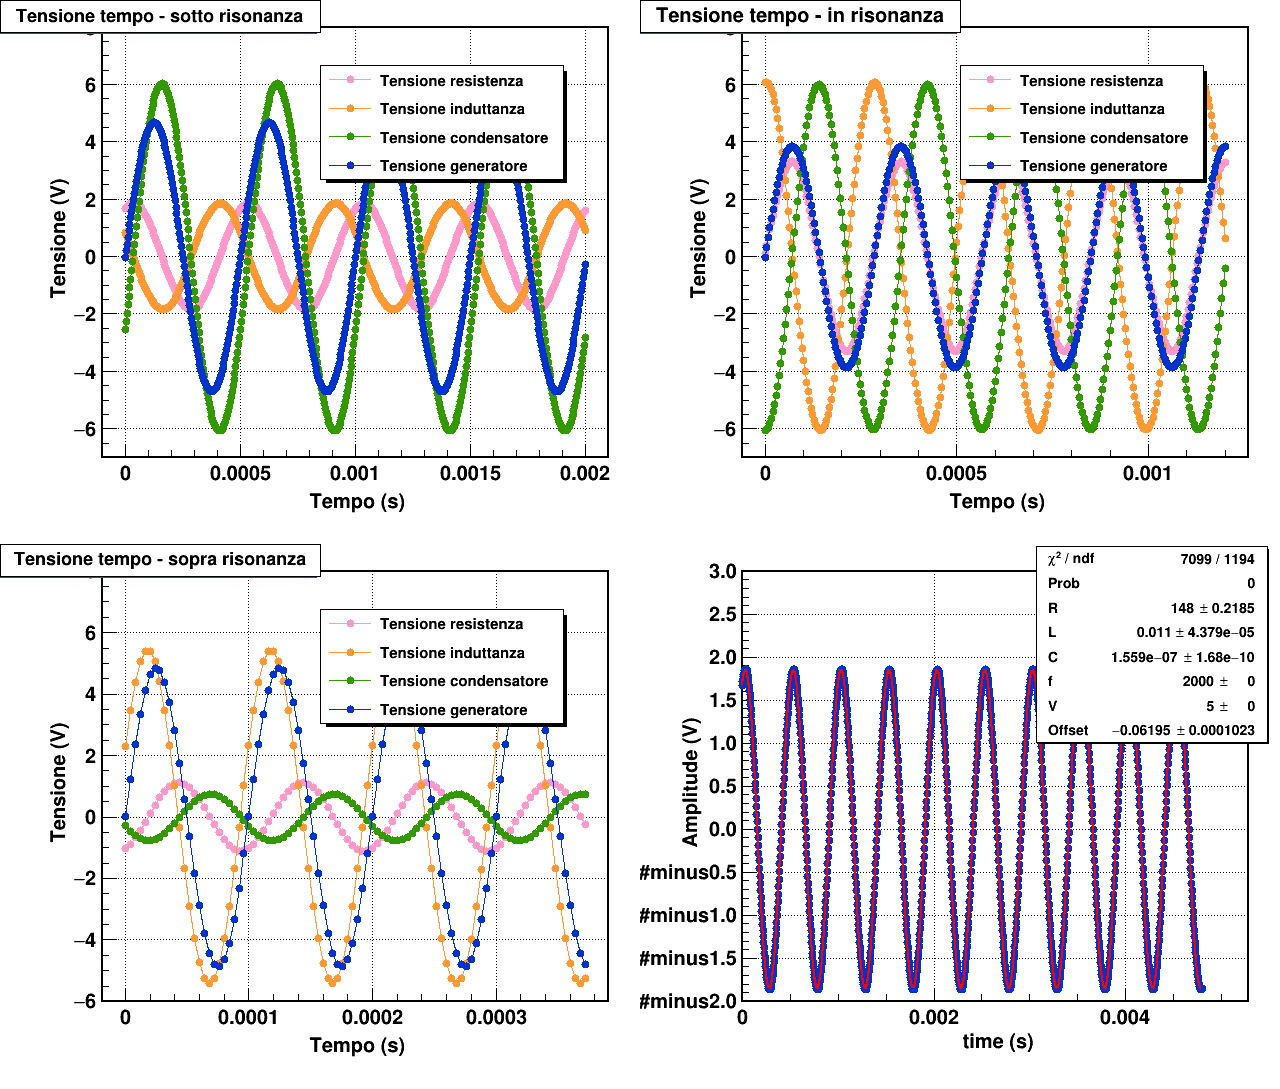
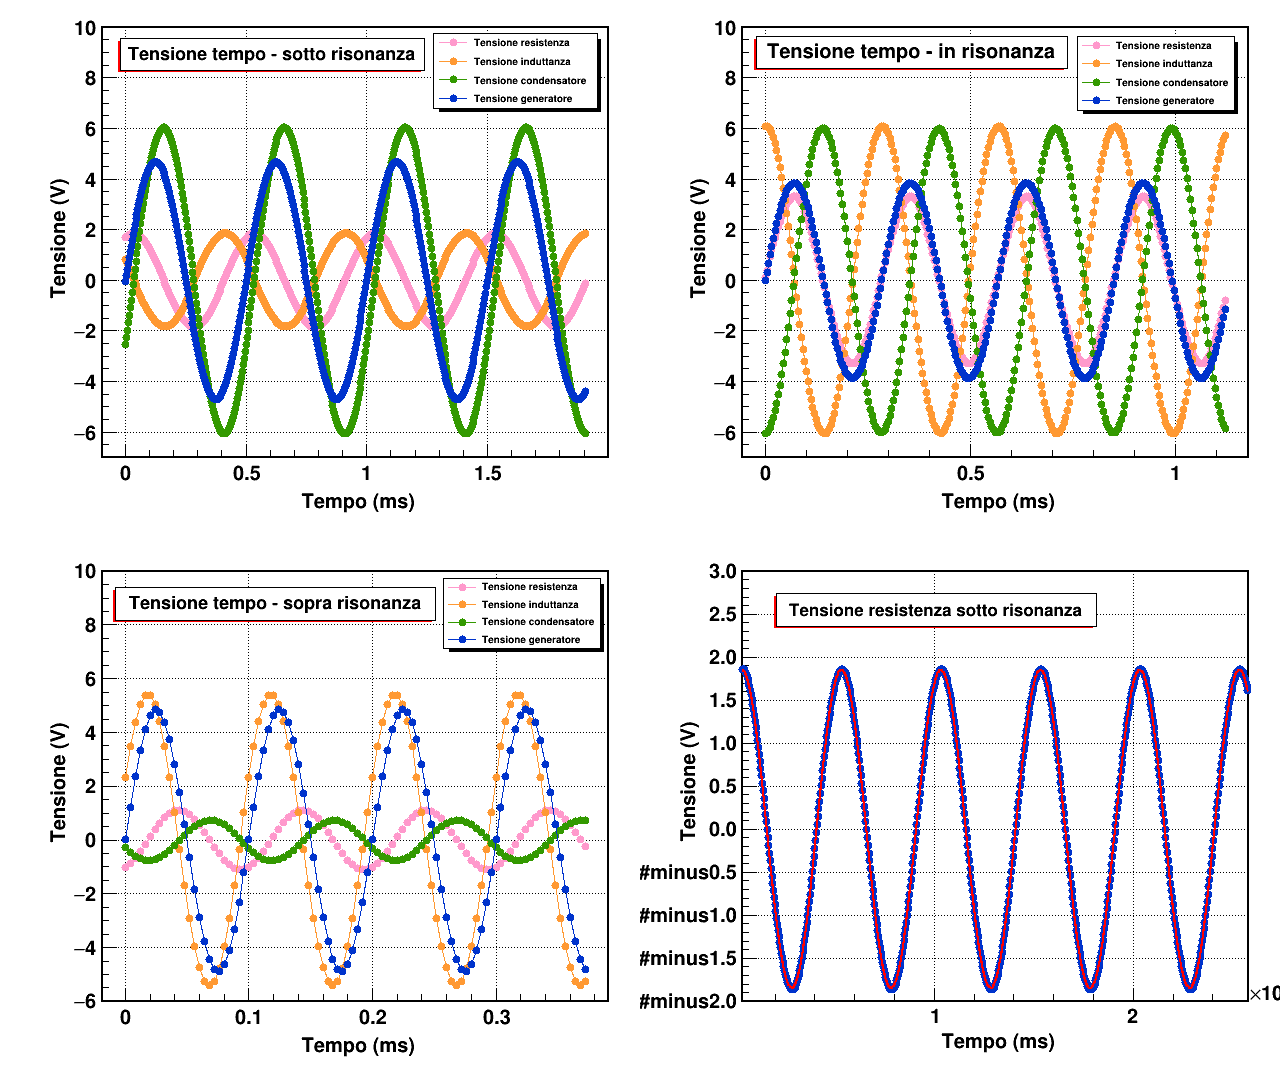
ciao

diff --git a/laboratori/lab_4/time.cpp b/laboratori/lab_4/time.cpp
@@ -24,13 +24,10 @@ constexpr Double_t height = 1440;
 void setStyle()
 {
   gROOT->SetStyle("BELLE2");
-  // gStyle->SetTextFont(4);
-  //   VEDI TUTTE LE OPZIONI DI FONT
-  //  gStyle->SetStatFont()
-  gStyle->SetPalette(57); // NON CAPISCO CHE FA
+  gStyle->SetPalette(57);
   gStyle->SetOptTitle(0);
-  gStyle->SetOptStat(112211); // 1=Integral 1=Overf 1=Underf 2=RMS 2=Mean 1=Entries 1=Name
-  gStyle->SetOptFit(1111);    // 1=Prob 1=Chi 1=Err 1=Param
+  gStyle->SetOptStat(0);
+  gStyle->SetOptFit(0);
 }
 
 void setGraphicsGraph(TGraphErrors *graph)
@@ -282,7 +279,7 @@ void time()
   padSotto->SetGridx();
   padSotto->SetGridy();
   padSotto->SetFrameLineWidth(2);
-  multiGraph_sotto->SetMaximum(8.);
+  multiGraph_sotto->SetMaximum(10);
   multiGraph_sotto->SetMinimum(-7);
   multiGraph_sotto->Draw("ALP");
 
@@ -298,7 +295,7 @@ void time()
   padIn->SetGridx();
   padIn->SetGridy();
   padIn->SetFrameLineWidth(2);
-  multiGraph_in->SetMaximum(8);
+  multiGraph_in->SetMaximum(10);
   multiGraph_in->SetMinimum(-7);
   multiGraph_in->Draw("ALP");
 
@@ -314,7 +311,7 @@ void time()
   padSopra->SetGridx();
   padSopra->SetGridy();
   padSopra->SetFrameLineWidth(2);
-  multiGraph_sopra->SetMaximum(8);
+  multiGraph_sopra->SetMaximum(10);
   multiGraph_sopra->SetMinimum(-6);
   multiGraph_sopra->Draw("ALP");
 
@@ -332,9 +329,15 @@ void time()
   padFit->SetFrameLineWidth(2);
   graphResistenza_fit->GetXaxis()->SetMaxDigits(3);
   graphResistenza_fit->GetXaxis()->SetNoExponent(false);
-  graphResistenza_fit->SetMaximum(3);
+  graphResistenza_fit->SetMaximum(2.5);
   graphResistenza_fit->SetMinimum(-2);
+  graphResistenza_fit->GetXaxis()->SetLimits(0., 2.5E-3);
   graphResistenza_fit->Draw("ALP");
+
+  TPaveText *titoloFit = new TPaveText(0, 1., .5, .94, "NDC BL");
+  setGraphicsTitolo(titoloFit);
+  titoloFit->AddText("Tensione resistenza sotto risonanza");
+  titoloFit->Draw();
 
   canvas->Update();
 }
